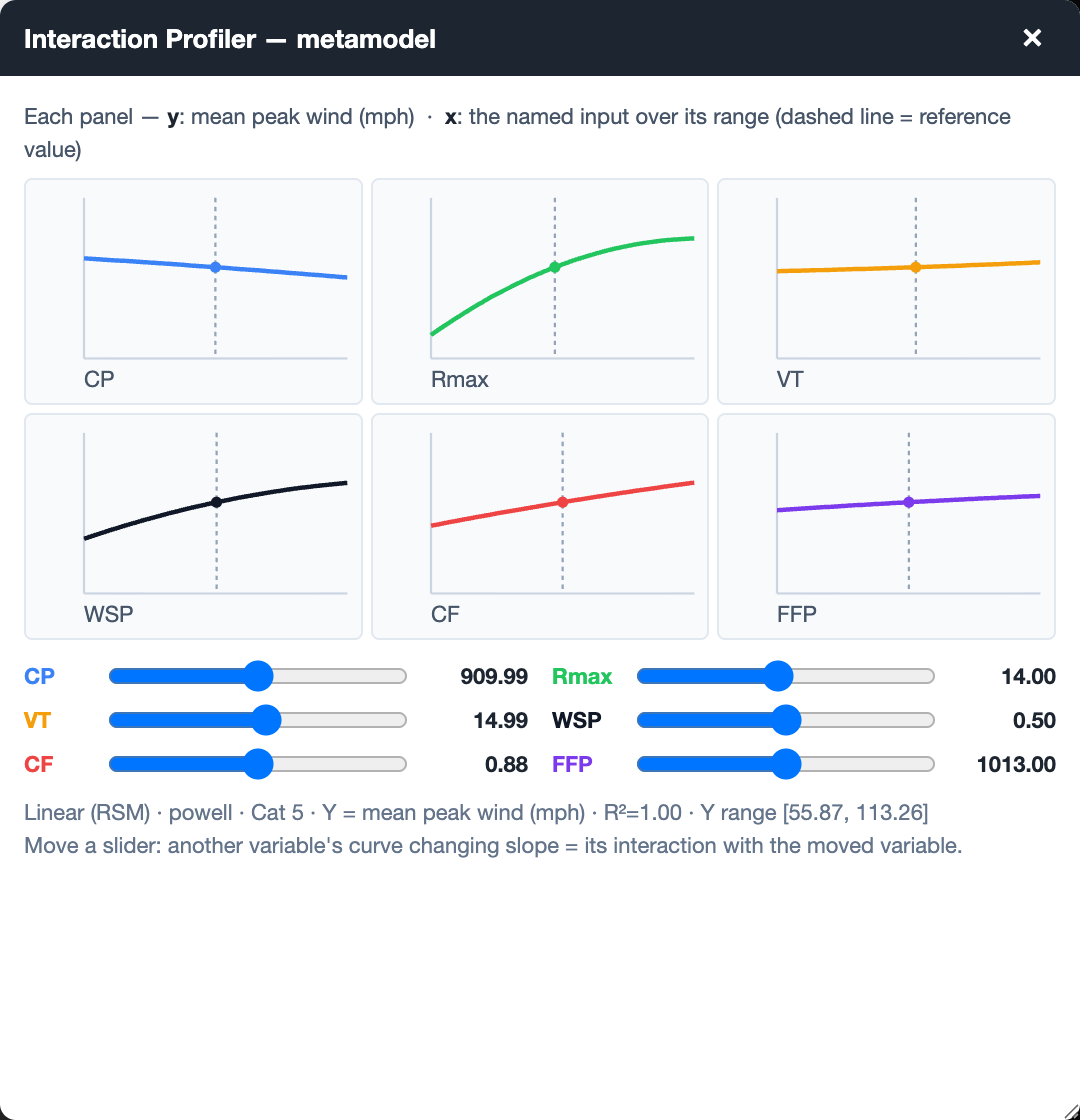
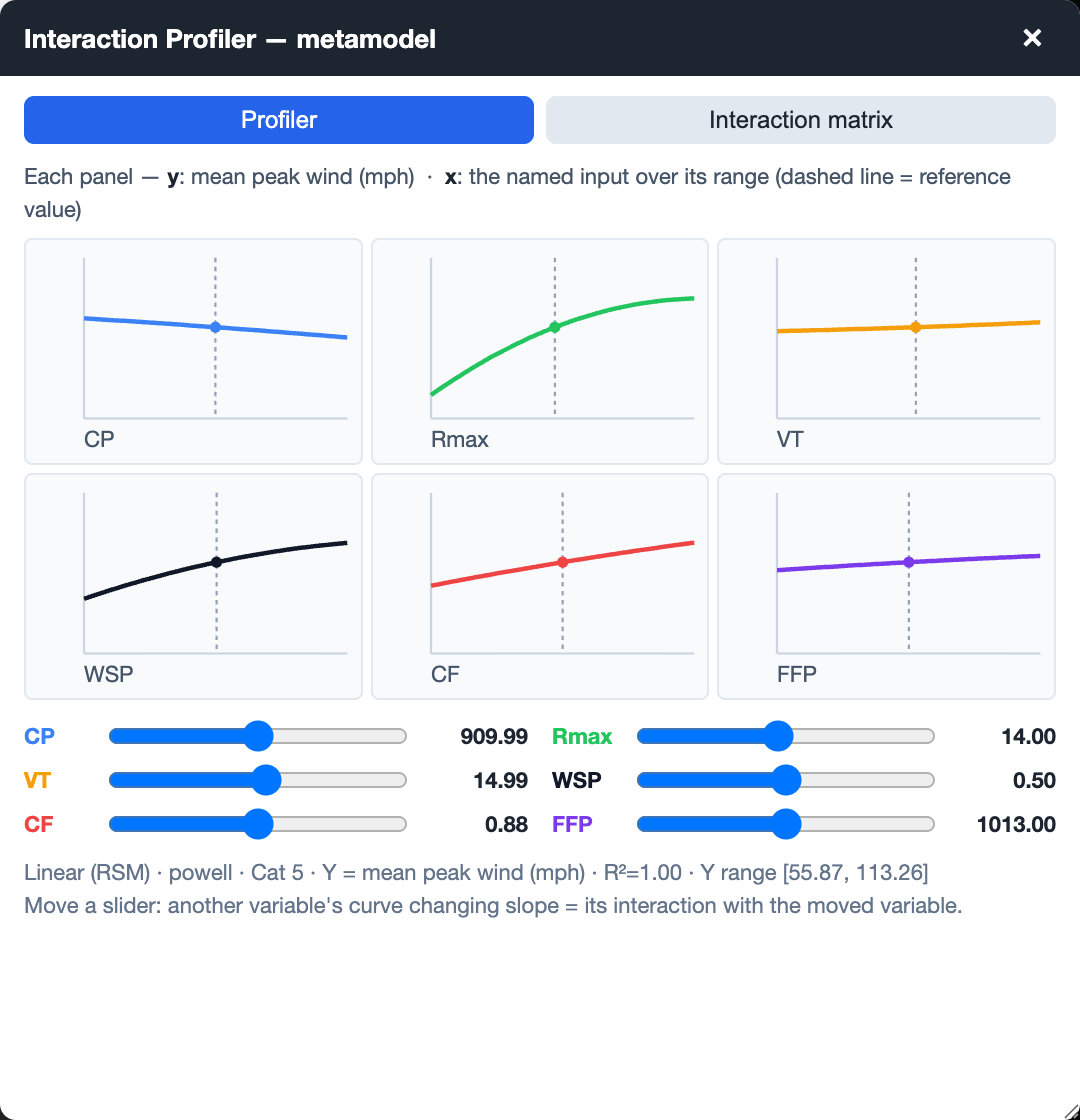
Add Interaction-matrix view as a toggle in the Interaction Profiler panel
A second, all-at-once view of pairwise interactions, switched via a
Profiler <-> Interaction matrix toggle at the top of the existing Interaction
Profiler panel (no new menu item). It is an NxN grid over the six inputs:
the diagonal labels each variable with its min->max range, and each off-diagonal
cell (r,c) draws the effect of input c with input r held at min (red) and max
(blue), other inputs at their mean — diverging red/blue = an r x c interaction.
Reuses the existing metamodel (mm.predict); no refit.

- web/analysis.js: profilerState.view, toggle in buildProfilerDOM, wireProfTabs,
  drawInteractionMatrix; web/style.css: toggle + matrix styles.
- tests/auto/test_profiler_cdf.py: open the Statistics/Actuarial group before
  clicking its buttons (fixes a pre-existing breakage from the menu grouping) +
  a matrix-toggle assertion.
- docs: Interaction-matrix paragraph + analysis_matrix.png; capture _js settle
  delay; PDF rebuilt.

diff --git a/web/analysis.js b/web/analysis.js
@@ -18,7 +18,7 @@ const VAR_COLORS = {
   WSP: "#111827", CF: "#ef4444", FFP: "#7c3aed",
 };
 const analysisState = { mode: null, cache: null };  // mode: 'src' | 'epr'
-const profilerState = { mm: null, ref: null };       // metamodel + reference point
+const profilerState = { mm: null, ref: null, view: "profiler" };  // +view: profiler|matrix
 
 // ---- linear algebra ------------------------------------------------------
 function mean(a) { return a.reduce((s, v) => s + v, 0) / a.length; }
@@ -467,10 +467,35 @@ function drawProfiler() {
 }
 
 function buildProfilerDOM() {
-  const p = panels["prof"], mm = profilerState.mm, ref = profilerState.ref;
+  const p = panels["prof"], mm = profilerState.mm;
   const model = document.getElementById("model").value;
   const catN = document.getElementById("category").value;
   const metricTxt = responseVar() === "tlc" ? "%TLC" : "mean peak wind (mph)";
+  const cvTxt = mm.cv != null ? ` cv=${mm.cv.toFixed(2)}` : "";
+  const head = `${METAMODEL_LABEL[mm.type]} · ${model} · Cat ${catN} · Y = ${metricTxt} · ` +
+               `R²=${mm.r2.toFixed(2)}${cvTxt} · Y range [${mm.ymin.toFixed(2)}, ${mm.ymax.toFixed(2)}]${mm.note}`;
+  const view = profilerState.view;
+  const toggle =
+    `<div class="prof-toggle">` +
+    `<button class="prof-tab${view === "profiler" ? " active" : ""}" data-view="profiler">Profiler</button>` +
+    `<button class="prof-tab${view === "matrix" ? " active" : ""}" data-view="matrix">Interaction matrix</button>` +
+    `</div>`;
+
+  if (view === "matrix") {
+    p.body.innerHTML = toggle +
+      `<div class="prof-axis">Cell (row <b>r</b>, col <b>c</b>): effect of <b>c</b> on ${metricTxt} ` +
+      `with <b>r</b> held at <span style="color:#ef4444">min (red)</span> / ` +
+      `<span style="color:#3b82f6">max (blue)</span>, other inputs at their mean. ` +
+      `Parallel red/blue = no interaction; diverging = interaction.</div>` +
+      `<div class="prof-matrix" style="grid-template-columns:repeat(${mm.stats.length},1fr)"></div>` +
+      `<p class="note">${head}</p>`;
+    wireProfTabs(p);
+    drawInteractionMatrix();
+    return;
+  }
+
+  // ---- profiler view (partial-dependence + sliders) ----
+  const ref = profilerState.ref;
   let sliders = "";
   mm.stats.forEach((s, i) => {
     sliders += `<label class="prof-sl"><span style="color:${VAR_COLORS[s.v]}">${s.v}</span>` +
@@ -478,15 +503,14 @@ function buildProfilerDOM() {
       `step="${((s.max - s.min) / 100) || 0.01}" value="${ref[i]}"/>` +
       `<b data-v="${i}">${ref[i].toFixed(2)}</b></label>`;
   });
-  const cvTxt = mm.cv != null ? ` cv=${mm.cv.toFixed(2)}` : "";
-  p.body.innerHTML =
+  p.body.innerHTML = toggle +
     `<div class="prof-axis">Each panel — <b>y</b>: ${metricTxt} &nbsp;·&nbsp; ` +
     `<b>x</b>: the named input over its range (dashed line = reference value)</div>` +
     `<div class="prof-grid"></div>` +
     `<div class="prof-sliders">${sliders}</div>` +
-    `<p class="note">${METAMODEL_LABEL[mm.type]} · ${model} · Cat ${catN} · Y = ${metricTxt} · ` +
-    `R²=${mm.r2.toFixed(2)}${cvTxt} · Y range [${mm.ymin.toFixed(2)}, ${mm.ymax.toFixed(2)}]${mm.note}` +
+    `<p class="note">${head}` +
     `<br>Move a slider: another variable's curve changing slope = its interaction with the moved variable.</p>`;
+  wireProfTabs(p);
   p.body.querySelectorAll(".prof-sliders input").forEach(inp => {
     inp.addEventListener("input", () => {
       const idx = +inp.dataset.i;
@@ -497,6 +521,56 @@ function buildProfilerDOM() {
     });
   });
   updateProfilerPlots();
+}
+
+function wireProfTabs(p) {
+  p.body.querySelectorAll(".prof-tab").forEach(b =>
+    b.addEventListener("click", () => { profilerState.view = b.dataset.view; buildProfilerDOM(); }));
+}
+
+// N×N interaction matrix: cell (r,c) = effect of input c on the response with input
+// r fixed at min (red) and max (blue), all other inputs at their mean. Diagonal = the
+// variable name + its min→max range (the red/blue levels). Reuses mm.predict — no refit.
+function drawInteractionMatrix() {
+  const p = panels["prof"], mm = profilerState.mm;
+  const grid = p && p.body.querySelector(".prof-matrix");
+  if (!grid) return;
+  const stats = mm.stats, N = stats.length, means = stats.map(s => s.m);
+  const ylo = mm.ymin, yhi = mm.ymax, yspan = (yhi - ylo) || 1;
+  const clampY = y => Math.max(ylo, Math.min(yhi, y));
+  const NS = 24, W = 120, H = 80, mL = 20, mR = 6, mT = 7, mB = 14;
+  const ypix = y => mT + (1 - (y - ylo) / yspan) * (H - mT - mB);
+  const fmt = v => Math.abs(v) >= 100 ? v.toFixed(0) : v.toFixed(2);
+  let html = "";
+  for (let r = 0; r < N; r++) {
+    for (let c = 0; c < N; c++) {
+      if (r === c) {
+        html += `<div class="prof-cell prof-diag"><div style="color:${VAR_COLORS[stats[r].v]}">${stats[r].v}</div>` +
+          `<div class="prof-diag-rng"><span style="color:#ef4444">${fmt(stats[r].min)}</span> → ` +
+          `<span style="color:#3b82f6">${fmt(stats[r].max)}</span></div></div>`;
+        continue;
+      }
+      const sc = stats[c], xlo = sc.min, xhi = sc.max, xspan = (xhi - xlo) || 1;
+      const xpix = x => mL + ((x - xlo) / xspan) * (W - mL - mR);
+      const curve = level => {
+        let pts = "";
+        for (let k = 0; k <= NS; k++) {
+          const xv = xlo + (k / NS) * xspan;
+          const raw = means.slice(); raw[c] = xv; raw[r] = level;
+          pts += `${xpix(xv).toFixed(1)},${ypix(clampY(mm.predict(raw))).toFixed(1)} `;
+        }
+        return pts.trim();
+      };
+      let svg = `<svg viewBox="0 0 ${W} ${H}" width="100%"><title>${sc.v} vs ${stats[r].v}</title>`;
+      svg += `<line x1="${mL}" y1="${ypix(ylo)}" x2="${W - mR}" y2="${ypix(ylo)}" stroke="#e2e8f0"/>`;
+      svg += `<line x1="${mL}" y1="${mT}" x2="${mL}" y2="${H - mB}" stroke="#e2e8f0"/>`;
+      svg += `<polyline points="${curve(stats[r].min)}" fill="none" stroke="#ef4444" stroke-width="1.6"/>`;
+      svg += `<polyline points="${curve(stats[r].max)}" fill="none" stroke="#3b82f6" stroke-width="1.6"/>`;
+      svg += `<text x="${(mL + W - mR) / 2}" y="${H - 3}" text-anchor="middle" class="ax">${sc.v}</text></svg>`;
+      html += `<div class="prof-cell">${svg}</div>`;
+    }
+  }
+  grid.innerHTML = html;
 }
 
 function updateProfilerPlots() {

diff --git a/web/style.css b/web/style.css
@@ -90,9 +90,17 @@ body.theme-light .analysis-group:hover { background: #d4dce5; }
 .legend2 .lgi span { width: 12px; height: 12px; border-radius: 2px; margin-right: 4px; }
 
 /* interaction profiler panel */
+.prof-toggle { display: flex; gap: 6px; margin-bottom: 8px; }
+.prof-tab { flex: 1; padding: 5px; cursor: pointer; font-size: 12px;
+  background: #e2e8f0; color: #1c2530; border: none; border-radius: 5px; }
+.prof-tab.active { background: #2563eb; color: #fff; }
 .prof-axis { font-size: 11px; color: #475569; margin: 2px 0 6px; }
 .prof-axis b { color: #1c2530; }
 .prof-grid { display: grid; grid-template-columns: repeat(3, 1fr); gap: 4px; }
+.prof-matrix { display: grid; gap: 2px; }
+.prof-diag { display: flex; flex-direction: column; align-items: center;
+  justify-content: center; font-weight: 600; font-size: 12px; text-align: center; }
+.prof-diag-rng { font-size: 9px; font-weight: 400; margin-top: 2px; }
 .prof-cell { background: #f8fafc; border: 1px solid #e2e8f0; border-radius: 4px; }
 .prof-sliders { display: grid; grid-template-columns: repeat(2, 1fr);
   gap: 2px 12px; margin-top: 8px; }

diff --git a/tests/auto/test_profiler_cdf.py b/tests/auto/test_profiler_cdf.py
@@ -10,7 +10,7 @@ Verifies:
 
 Run:  python tests/auto/test_profiler_cdf.py   (server must be up via ./start)
 """
-import os, sys, logging
+import os, sys, time, logging
 
 from selenium import webdriver
 from selenium.webdriver.chrome.options import Options
@@ -50,7 +50,16 @@ def main():
         wait.until(lambda d: "Loading grid" not in d.find_element(By.ID, "info").text)
         info("App initialized: " + driver.find_element(By.ID, "info").text)
 
-        # 1. open Interaction Profiler
+        # analysis buttons live in collapsible Statistics / Actuarial groups
+        def open_group(grp):
+            driver.execute_script(
+                "const g=[...document.querySelectorAll('.analysis-group')]"
+                ".find(g=>g.dataset.grp===arguments[0]);"
+                "if(g && !g.classList.contains('open')) g.click();", grp)
+            time.sleep(0.3)
+
+        # 1. open Interaction Profiler (Statistics group)
+        open_group("grpStats")
         driver.find_element(By.ID, "btnProf").click()
         wait.until(lambda d: len(d.find_elements(By.CSS_SELECTOR, ".prof-cell")) == 6)
         cells = driver.find_elements(By.CSS_SELECTOR, ".prof-cell")
@@ -74,6 +83,22 @@ def main():
         if changed == 0:
             failures.append("no curve changed when moving CP -> interactions not shown")
 
+        # 2b. Interaction-matrix toggle: 6x6 cells, 6 diagonal, red+blue per off-diagonal
+        driver.execute_script("[...document.querySelectorAll('.prof-tab')]"
+                              ".find(b=>b.dataset.view==='matrix').click();")
+        wait.until(lambda d: len(d.find_elements(By.CSS_SELECTOR, ".prof-matrix .prof-cell")) == 36)
+        n_diag = len(driver.find_elements(By.CSS_SELECTOR, ".prof-matrix .prof-diag"))
+        n_poly = len(driver.find_elements(By.CSS_SELECTOR, ".prof-matrix svg polyline"))
+        info(f"Matrix: 36 cells, {n_diag} diagonal, {n_poly} polylines")
+        if n_diag != 6:
+            failures.append(f"matrix expected 6 diagonal cells, got {n_diag}")
+        if n_poly != 60:
+            failures.append(f"matrix expected 60 polylines (30x red+blue), got {n_poly}")
+        # back to the slider profiler
+        driver.execute_script("[...document.querySelectorAll('.prof-tab')]"
+                              ".find(b=>b.dataset.view==='profiler').click();")
+        wait.until(lambda d: len(d.find_elements(By.CSS_SELECTOR, ".prof-sliders input")) == 6)
+
         # 3. switch Response -> %TLC, profiler re-renders with Y=%TLC
         Select(driver.find_element(By.ID, "response")).select_by_value("tlc")
         wait.until(lambda d: "%TLC" in
@@ -85,7 +110,8 @@ def main():
         if "%TLC" not in note:
             failures.append(f"profiler did not switch to %TLC: {note!r}")
 
-        # 4. CDF panel renders
+        # 4. CDF panel renders (Actuarial group)
+        open_group("grpAct")
         driver.find_element(By.ID, "btnCDF").click()
         wait.until(lambda d: any(
             "input vectors" in p.text

diff --git a/docs/FormS6.tex b/docs/FormS6.tex
@@ -299,6 +299,31 @@ interaction between that pair of variables.}
 \label{fig:profiler}
 \end{figure}
 
+\paragraph{Interaction matrix.}
+A \textbf{Profiler\,$\,\leftrightarrow\,$Interaction matrix} toggle at the top of the
+panel offers a second, all-at-once view of the same metamodel
+(Figure~\ref{fig:matrix}). It is an $N\!\times\!N$ grid over the six inputs: the
+diagonal labels each variable with its min$\,\to\,$max range, and each off-diagonal
+cell $(r,c)$ draws the effect of input $c$ on $\hat Y$ with input $r$ held at its
+\textcolor{red}{minimum (red)} and \textcolor{blue}{maximum (blue)}, all other
+inputs at their mean. Parallel red and blue curves mean no interaction; diverging
+slopes or a widening gap mean $r$ and $c$ interact. Where the slider profiler is the
+interactive explorer (one reference point at a time), the matrix is a standing map
+of \emph{every} pairwise interaction at once---e.g.\ the $R_{\max}$ row shows a
+large red/blue separation against WSP and CF, the same interaction structure the
+sliders reveal one pair at a time. Both views are driven by the same fit; switching
+the \textbf{Metamodel} (Linear/GPR/NN) or response redraws either.
+
+\begin{figure}[H]
+\centering
+\includegraphics[width=0.82\textwidth]{analysis_matrix.png}
+\caption{Interaction-matrix view (Category~5 Powell, $Y=$ mean peak wind). Diagonal:
+each input and its min$\to$max range. Off-diagonal cell $(r,c)$: the effect of input
+$c$ with input $r$ at min (red) vs max (blue), others at their mean; diverging
+red/blue indicates an $r\times c$ interaction.}
+\label{fig:matrix}
+\end{figure}
+
 \paragraph{Loss-cost distribution.}
 A companion panel plots the empirical CDF of $\%\text{TLC}(i)$ over the $100$
 vectors for the selected category (the ROA's Fig.~5 analogue), summarizing the

diff --git a/docs/capture_figures.py b/docs/capture_figures.py
@@ -39,6 +39,9 @@ FIGURES = [
     ("analysis_src",     {"model": "powell", "_btn": "btnSRC"}, ".analysis-panel"),
     ("analysis_epr",     {"model": "powell", "_btn": "btnEPR"}, ".analysis-panel"),
     ("analysis_profiler", {"model": "powell", "category": "5", "_btn": "btnProf"}, ".analysis-panel"),
+    ("analysis_matrix", {"model": "powell", "category": "5", "_btn": "btnProf",
+                        "_js": "[...document.querySelectorAll('.prof-tab')]"
+                               ".find(b=>b.dataset.view==='matrix').click();"}, ".analysis-panel"),
     ("analysis_tlc_cdf",  {"model": "powell", "category": "5", "response": "tlc",
                           "_btn": "btnCDF"}, ".analysis-panel"),
     ("analysis_compare",  {"model": "powell", "category": "5", "_btn": "btnCompare"}, ".analysis-panel"),
@@ -75,6 +78,7 @@ def apply(driver, controls):
             "const i=state.grid.points.findIndex(p=>p.land&&p.ns===arguments[1]&&p.ew===arguments[0]);"
             "if(i>=0) openWindfieldPopup(i);", ew, ns)
     if "_js" in controls:
+        time.sleep(1.0)   # let any panel opened by _btn finish rendering first
         driver.execute_script(controls["_js"])
 
 
@@ -107,7 +111,7 @@ def main():
             if sel:
                 # enlarge the floating window so chart + legend + note all show
                 # (the financial panel has controls + plot + table -> taller)
-                h = "700px" if name == "analysis_financial" else "560px"
+                h = "700px" if name in ("analysis_financial", "analysis_matrix") else "560px"
                 drv.execute_script(
                     "const p=document.querySelector('.analysis-panel');"
                     f"if(p){{p.style.width='540px';p.style.height='{h}';}}")

diff --git a/projectplan.md b/projectplan.md
@@ -583,5 +583,21 @@ unaffected (the client only ever sees a 682-number array, a few KB).
 4. **Renter/commercial.** `B25082` is owner-occupied only. v1 ships that as a
    labeled proxy; renter/commercial scaling is a later refinement.
 
+## Interaction matrix view (2026-06-26) — DONE
+Second, all-at-once view of pairwise interactions, as a **Profiler ↔ Interaction
+matrix** toggle inside the existing Interaction Profiler panel (per user: toggle,
+not a separate menu item; low/high = min/max). Replicates an emailed JMP-style
+matrix.
+- `web/analysis.js`: `profilerState.view`; `buildProfilerDOM` branches on view +
+  renders the toggle; `wireProfTabs`; `drawInteractionMatrix` — N×N grid, diagonal
+  = variable + min→max range, off-diagonal (r,c) = effect of c with r at min (red)
+  / max (blue), others at mean. Reuses `mm.predict` — no refit.
+- `web/style.css`: `.prof-toggle/.prof-tab/.prof-matrix/.prof-diag`.
+- Tests: `test_profiler_cdf.py` fixed for the Statistics/Actuarial groups (open
+  group before clicking btnProf/btnCDF) + a matrix-toggle check (36 cells, 6
+  diagonal, 60 polylines). Passes.
+- Docs: Interaction-matrix paragraph + figure `analysis_matrix.png`
+  (capture `_js` toggles to the matrix tab; +1s settle before `_js`); PDF rebuilt.
+
 ## Review
 _(to be filled in as work proceeds)_